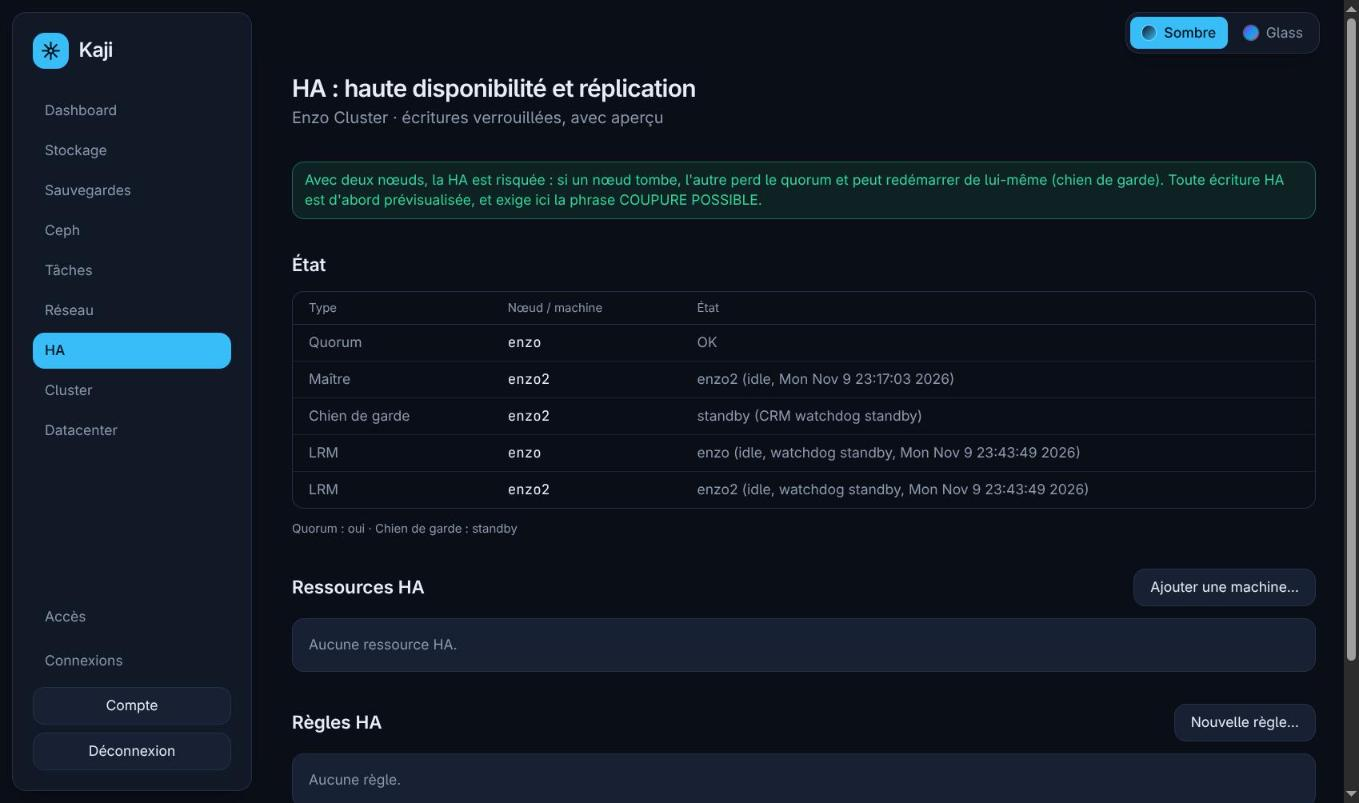
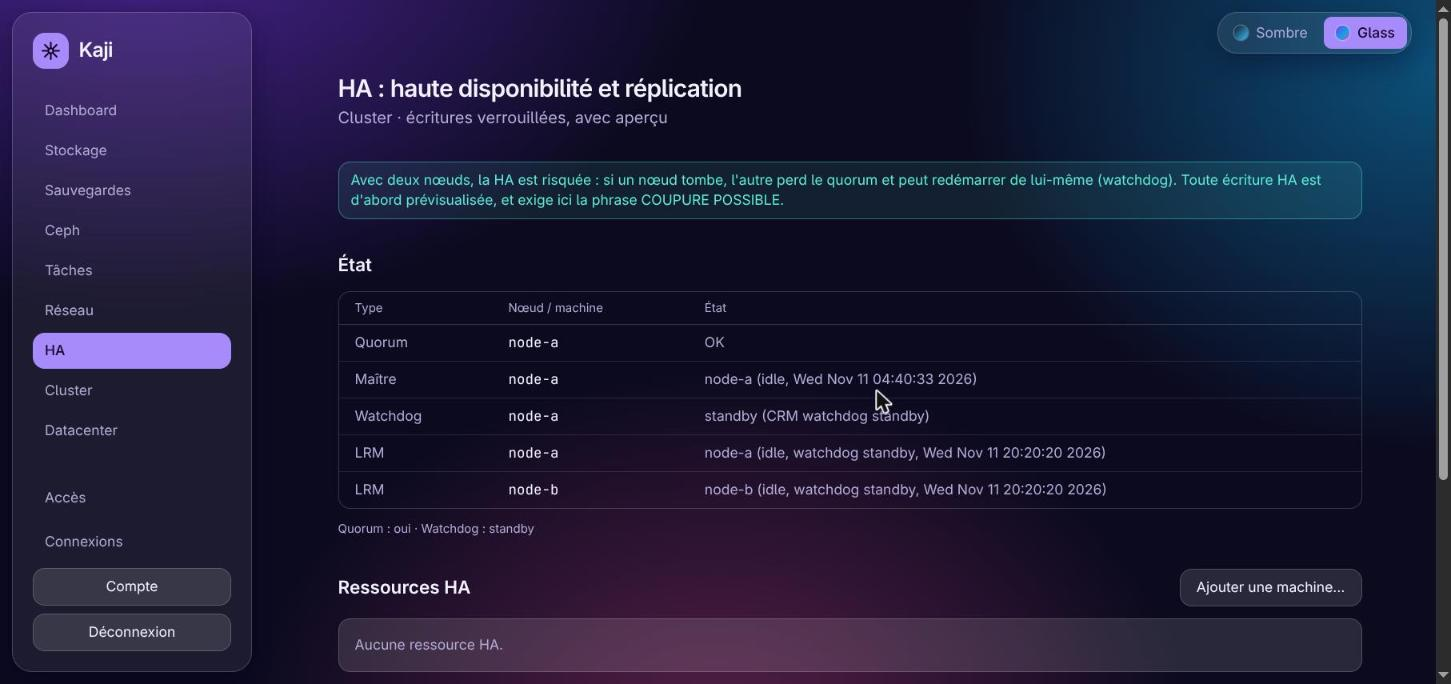
docs(captures): onglet Pare-feu d'une machine, capture HA avec « Watchdog »
Claude-Session: https://claude.ai/code/session_012AuSHSUcio2c87z7NysAGR

diff --git a/docs/REPRISE.md b/docs/REPRISE.md
@@ -60,7 +60,7 @@ Deux agents, **PC A** et **PC B**, qui font **la même chose** depuis le 2026-11
 - **Périphériques d'une VM (PC B, #225 ; PR #265 fusionnée et déployée le 2026-11-10)** : onglet « Périphériques » (VM seulement) : carte d'affichage (`vga`), ports série `serial0..3` (**socket seulement**), audio, générateur aléatoire (`/dev/urandom` seulement), watchdog ; `confirm` décidé par le serveur pour `vga: none` ; machines protégées refusées ; changements en attente jusqu'au prochain démarrage (`docs/api/peripheriques.md`). Code repris d'une session précédente de PC B (non commité, retrouvé dans un autre worktree), relu et retesté (60 tests, 24 mutations tuées). **Validé en réel (2026-11-10, VM 115 arrêtée, par l'interface)** : `vga=vmware`, `serial0=socket`, audio, RNG, watchdog écrits en une demande, relus à l'identique, puis retirés (état d'origine) ; refus constatés (port série hôte, type hors liste, `vga: none` sans `confirm`, demande vide). **Non essayé** : `vga: none`, options fines, VM en marche.
 - **BIOS, disque EFI et TPM d'une VM (PC B, #268 ; PR #269 fusionnée et déployée le 2026-11-10)** : l'onglet « Périphériques » gagne une carte « Démarrage et sécurité » : `bios` (seabios / ovmf, confirmation si changé), `efidisk0` et `tpmstate0` **ajoutés seulement s'ils sont absents** (jamais remplacés), retrait confirmé (le volume reste en « non utilisé ») ; nom du volume jamais renvoyé (`docs/api/peripheriques.md`). 91 tests, mutations tuées. **Validé en réel (2026-11-10, VM 115 arrêtée, par l'interface)** : `ovmf` (confirmation), disque EFI 4m clés pré-enrôlées et TPM v2.0 créés, relus, retirés ; les deux volumes « non utilisés » détruits (retape du nom) : état d'origine, un seul volume. Refus constatés (second EFI / TPM, stockage invalide, retrait sans confirmation). **Non essayé** : démarrer un système UEFI, VM en marche.
 - **Dépôts apt, essai réel (PC B, #261, 2026-11-11)** : Enzo a donné son accord pour activer / désactiver un dépôt sur `enzo2`. **Vu** : le clic « Activer » ouvre une fenêtre de confirmation ; pour le dépôt Ceph « enterprise » (sans abonnement) Kaji exige une case « apt répondra 401 » (non cochée : activer ce dépôt casserait les mises à jour). **Non fait** : l'écriture elle-même (désactiver puis réactiver `pve bookworm pve-no-subscription`) : le garde-fou de l'environnement a refusé le clic « Confirmer » (« modification de ressources partagées ») malgré l'accord ; **état inchangé**. À débloquer côté permissions de l'outil, ou à faire à la main par Enzo.
-- **Onglet Pare-feu d'une machine, VM et LXC (PC A, #274 ; PR en cours)** : nouvel onglet de la page Machine (options, règles, alias et IPSets de la machine) ; aucune route nouvelle, les fenêtres de la page « Réseau » acceptent une machine préremplie (`docs/api/pare-feu-machine.md`) ; la ligne « Conteneur » de `docs/parite-proxmox.md` était périmée (réplication, permissions, historique et tags existaient déjà). **Vu en réel (2026-11-11, VM 115, tout remis à l'identique)** : onglet Pare-feu (options et règles vides), « Options… » (champs de machine, aperçu `Aucun verrou : ce niveau est désactivé`), « Règles… » (machine préremplie, règle `in ACCEPT tcp 8080` désactivée créée puis supprimée, relues chez Proxmox), « Alias et IPSets… » (pas de groupes ; alias créé puis supprimé par l'API). **Défaut trouvé et corrigé** (PR de suivi) : dans « Objets du pare-feu » (datacenter comme machine), le champ « Retape le nom » ne s'affichait jamais pour une suppression (il n'apparaissait qu'une fois valide, et la validité exigeait de l'avoir retapé) : « Appliquer » restait grisé ; depuis M7-2, les suppressions d'alias, d'IPSet, d'entrée et de groupe étaient impossibles par l'interface (l'API marchait). **Jamais écrit en réel** : options de la machine, pare-feu activé.
+- **Onglet Pare-feu d'une machine, VM et LXC (PC A, #274 ; PR #275 fusionnée et déployée le 2026-11-11, correctif PR #277 déployé, captures au README)** : nouvel onglet de la page Machine (options, règles, alias et IPSets de la machine) ; aucune route nouvelle, les fenêtres de la page « Réseau » acceptent une machine préremplie (`docs/api/pare-feu-machine.md`) ; la ligne « Conteneur » de `docs/parite-proxmox.md` était périmée (réplication, permissions, historique et tags existaient déjà). **Vu en réel (2026-11-11, VM 115, tout remis à l'identique)** : onglet Pare-feu (options et règles vides), « Options… » (champs de machine, aperçu `Aucun verrou : ce niveau est désactivé`), « Règles… » (machine préremplie, règle `in ACCEPT tcp 8080` désactivée créée puis supprimée, relues chez Proxmox), « Alias et IPSets… » (pas de groupes ; alias créé puis supprimé par l'API). **Défaut trouvé et corrigé** (PR #277, revérifié en réel : le champ « Retape … » s'affiche, l'alias d'essai est supprimé) : dans « Objets du pare-feu » (datacenter comme machine), le champ « Retape le nom » ne s'affichait jamais pour une suppression (il n'apparaissait qu'une fois valide, et la validité exigeait de l'avoir retapé) : « Appliquer » restait grisé ; depuis M7-2, les suppressions d'alias, d'IPSet, d'entrée et de groupe étaient impossibles par l'interface (l'API marchait). **Jamais écrit en réel** : options de la machine, pare-feu activé.
 - **Renommage (demande d'Enzo, 2026-11-11)** : « Chien de garde » devient **« Watchdog »** (le nom de Proxmox) dans la page HA, les messages du serveur, la doc d'API et le README ; les lignes d'historique de ce fichier gardent l'ancien mot. **Les captures `ha-1.jpg` et `ha-regle-stricte.jpg` montrent encore l'ancien libellé** : à refaire au prochain essai HA.
 - **Reste, dans cet ordre** (tableau détaillé : `docs/parite-proxmox.md`, colonnes ⬜/🟡) : M10 écriture si Enzo le décide → M12 C4 destruction Ceph → M13 notifications + métriques → M14 options avancées → M15 datacenter. (M5, M6 code, M7 : terminés côté code ; il reste leurs validations en réel, voir « À reprendre sur un autre PC ».)
 - **Jamais exécuté en réel** (à dire dans chaque PR) : migration à chaud, déplacement et agrandissement de disque, carte réseau ajoutée, PBS (aucun PBS dispo), protection de sauvegarde, élagage (aucune sauvegarde sur le cluster), stockages autres que dir, redémarrer/éteindre un nœud, disques et volumes, certificats, ACME, dépôts (ajout), Ceph.

diff --git a/README.md b/README.md
@@ -474,6 +474,22 @@ Interfaces des nœuds, pare-feu (datacenter, nœud, machine) et SDN. Tout change
 
 *Options du pare-feu : les modifications dangereuses sont verrouillées, et l'aperçu dit pourquoi.*
 
+![Onglet Pare-feu d'une machine](docs/captures/pare-feu-machine-onglet.jpg)
+
+*Onglet Pare-feu d'une machine (VM et LXC) : options, règles, alias et IPSets de la machine, avec un rappel que le pare-feu ne filtre rien tant que celui du datacenter est désactivé.*
+
+![Options du pare-feu d'une machine](docs/captures/pare-feu-machine-options.jpg)
+
+*Options du pare-feu d'une machine (DHCP, filtres IP et MAC, NDP, annonces de routeur, politiques) : l'aperçu des verrous annonce qu'aucun n'est levé tant que le niveau est désactivé.*
+
+![Règles du pare-feu d'une machine](docs/captures/pare-feu-machine-regle.jpg)
+
+*Règles du pare-feu d'une machine : la machine est préremplie, la règle créée (désactivée par défaut) est relue chez Proxmox.*
+
+![Suppression d'un alias du pare-feu d'une machine](docs/captures/pare-feu-machine-suppression.jpg)
+
+*Supprimer un alias de la machine : le nom est à retaper pour confirmer, « Appliquer » reste grisé tant que ce n'est pas fait.*
+
 ![Règles du pare-feu (datacenter, nœud, machine, groupe) ](docs/captures/reseau-regles.jpg)
 
 *Règles du pare-feu (datacenter, nœud, machine, groupe) : chaque action montre d'abord ses verrous.*
